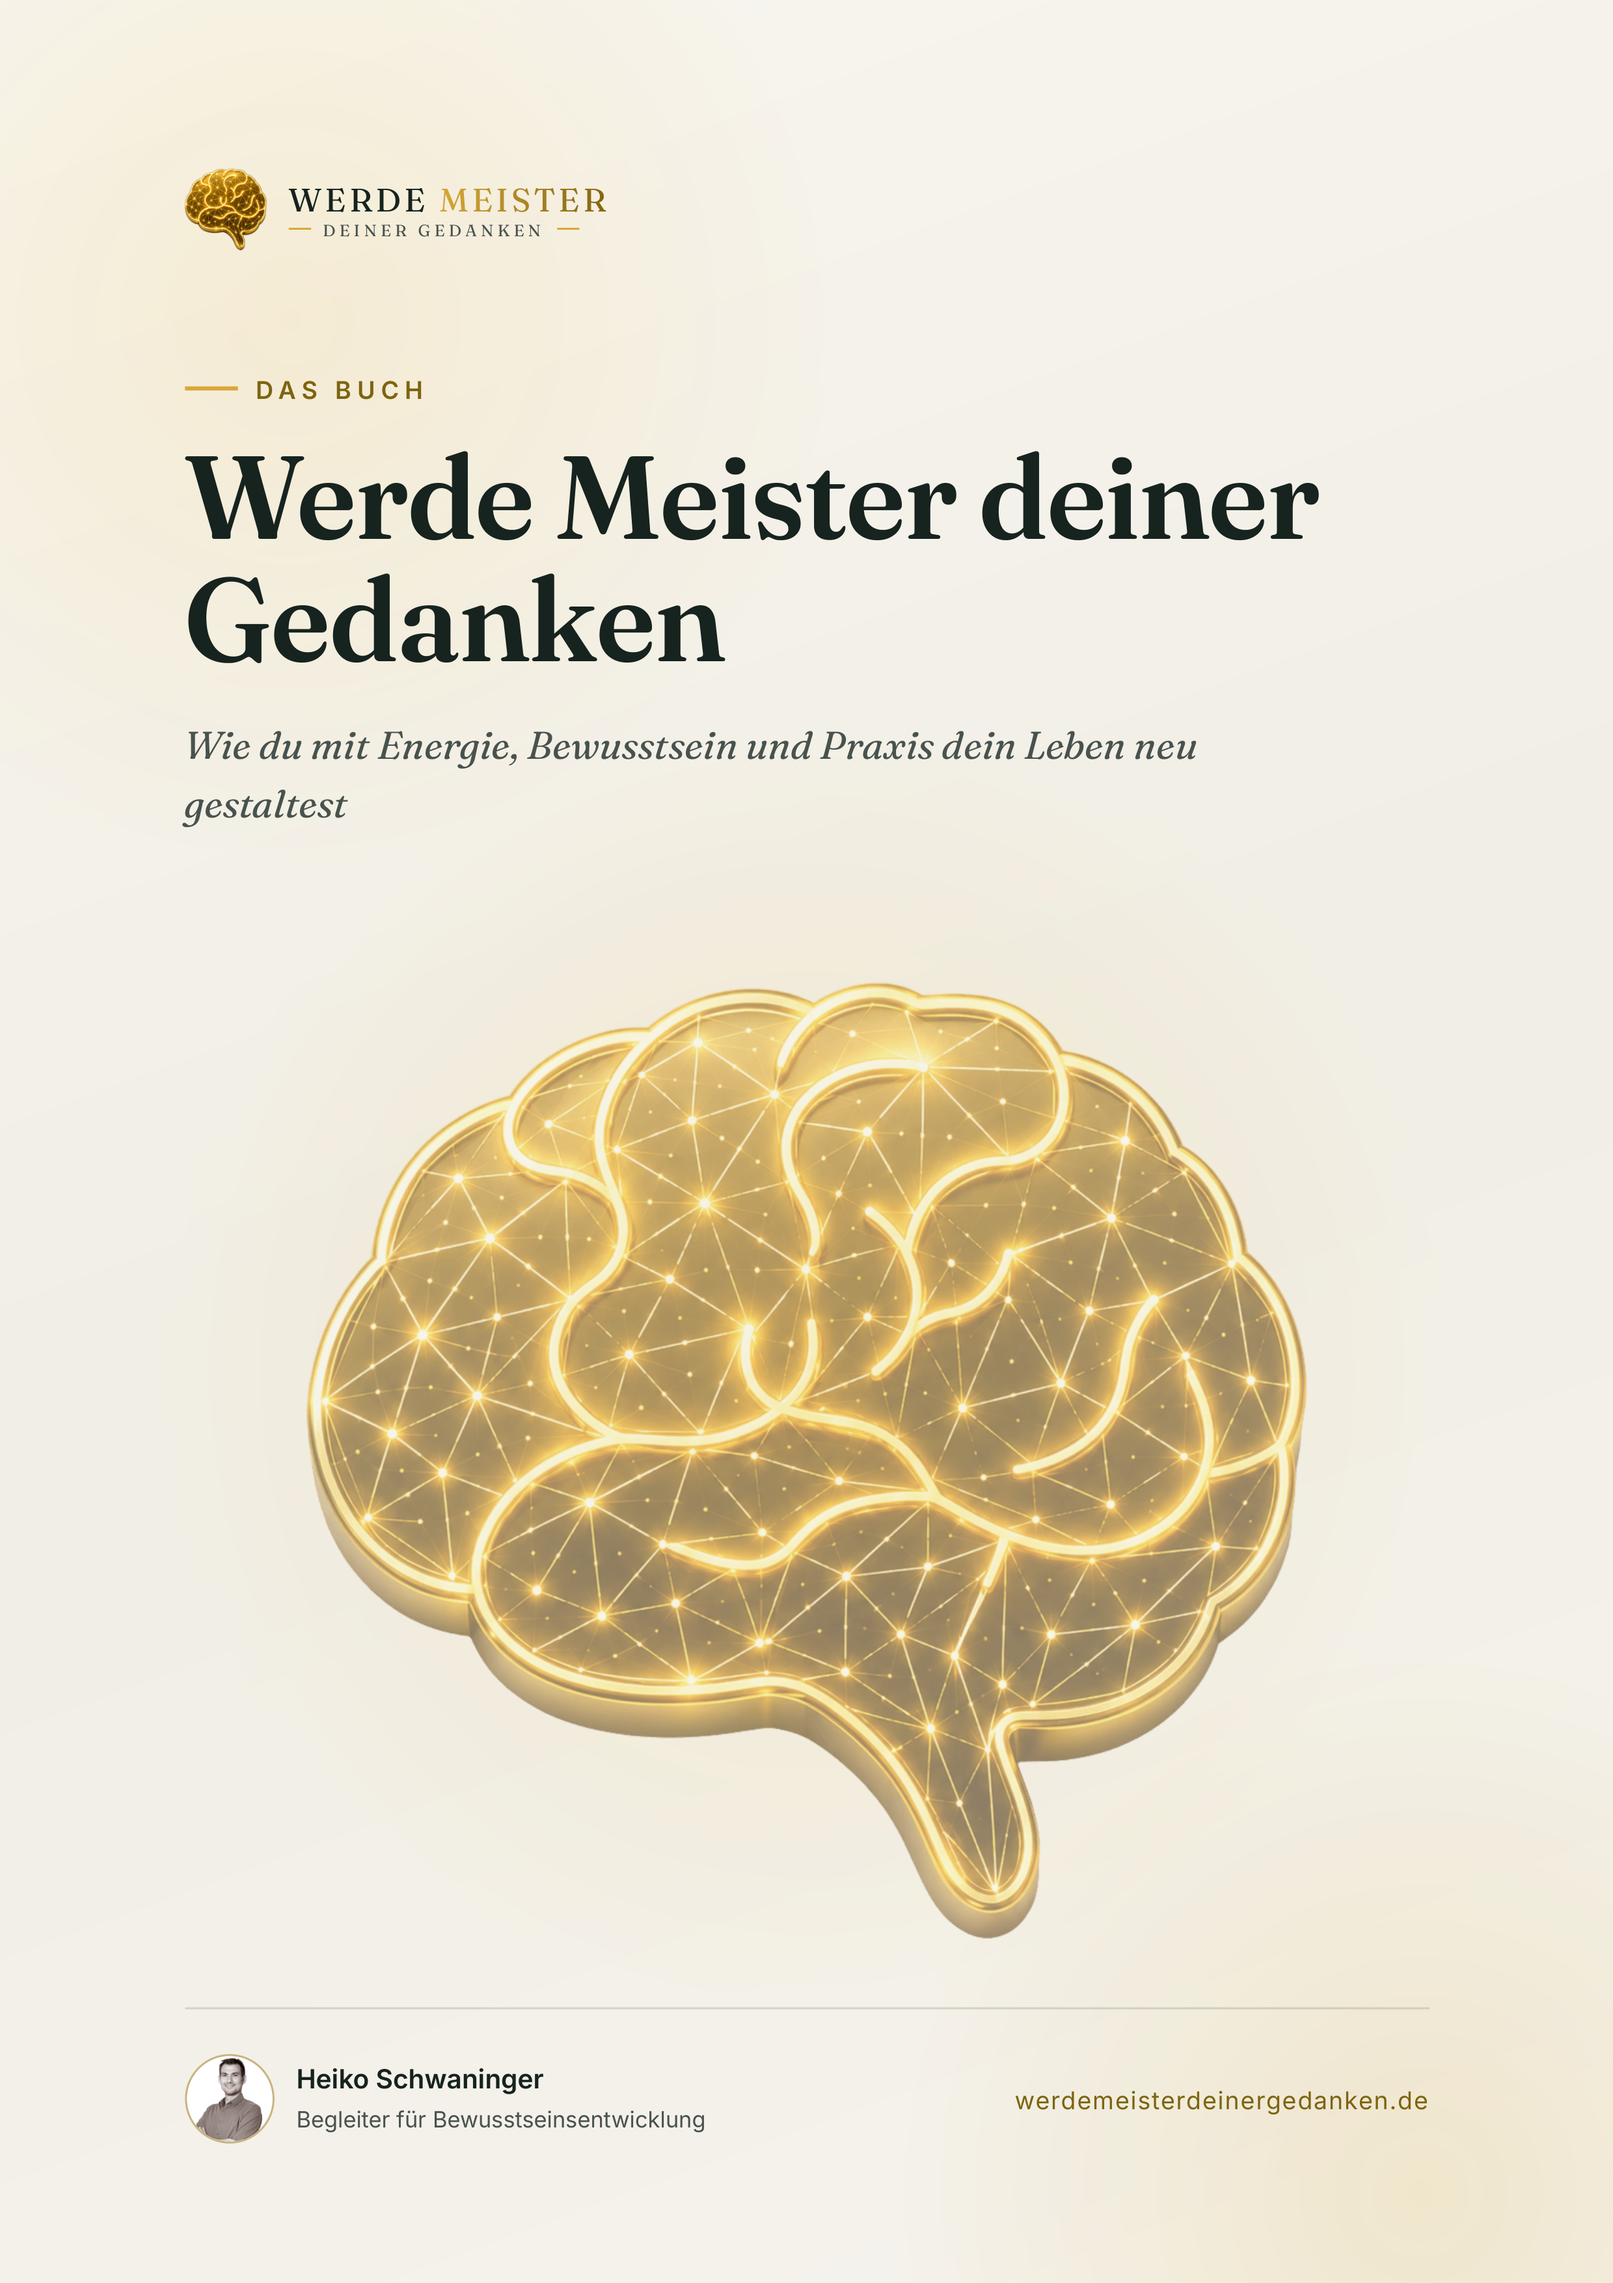
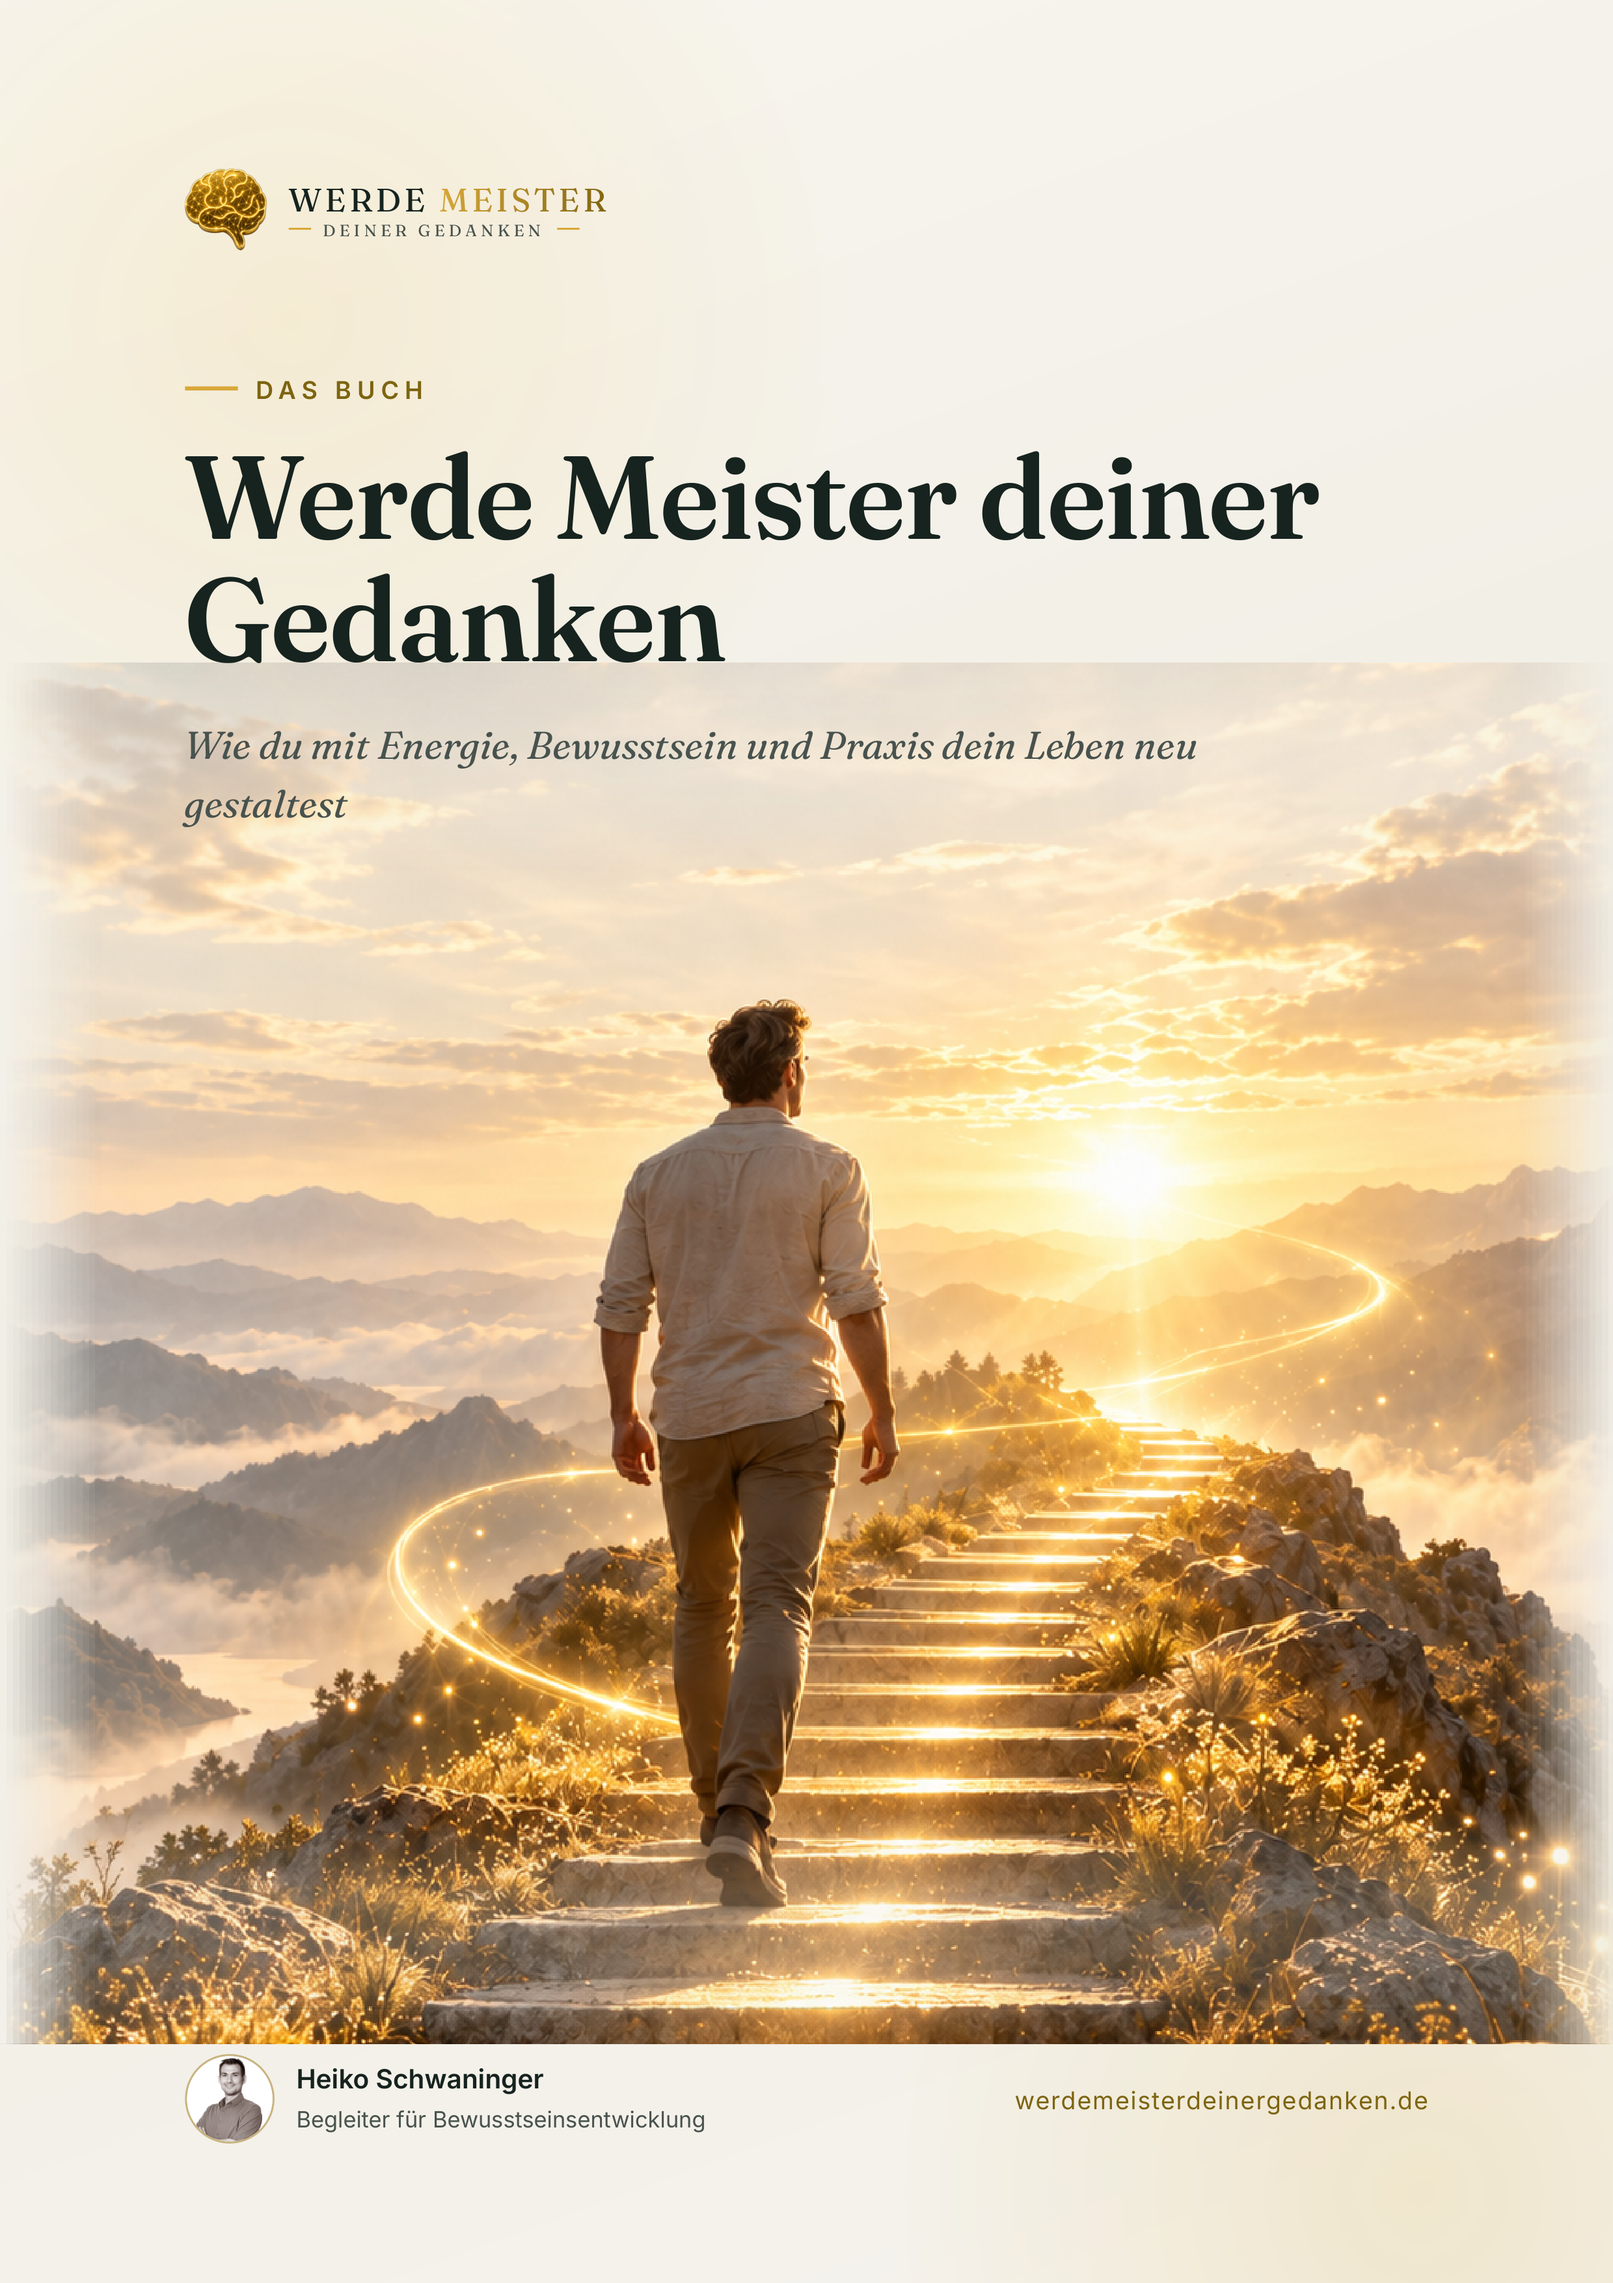
Buchcover: Treppen-Foto als Hauptmotiv einbinden
Legt das Foto „Mann auf der Treppe ins Licht" als tools/pdf/assets/cover-treppe.png
ab. Das Cover (build-buch.py) nutzt es dadurch als weich ins Creme ausgeblendetes
Vollbild-Band statt des goldenen Gehirns – auch im Buch-PDF. Neu gerendertes
content/pdf/Werde-Meister-deiner-Gedanken-Cover.png (2479×3508, A4 @ 300 dpi)
und README aktualisiert.

Claude-Session: https://claude.ai/code/session_01NV3zTsPDWxuzvzkdpV9YZo

diff --git a/tools/pdf/README.md b/tools/pdf/README.md
@@ -51,6 +51,11 @@ Das schreibt `content/pdf/Werde-Meister-deiner-Gedanken-Cover.png`
 - **Kein Nachbau:** `buchcover-png.py` baut bei Bedarf das Buch-HTML mit
   `build-buch.py`, löst daraus **genau** die `<section class="cover">` heraus und
   rendert diese identisch zur PDF-Titelseite.
+- **Hauptmotiv:** Liegt `tools/pdf/assets/cover-treppe.png` vor (Foto „Mann auf
+  der Treppe ins Licht"), nutzt das Cover dieses Foto als weich ins Creme
+  ausgeblendetes Vollbild-Band. Fehlt die Datei, fällt das Cover automatisch auf
+  das goldene Gehirn zurück. Das Motiv wird dadurch auch im **Buch-PDF**
+  (`npm run pdf:buch`) verwendet.
 - **Warum über PDF?** Die Cover-Seite ist im **Druck-Layout** gebaut
   (`@page`/`.cover{height:297mm}`, Autor-Fuß per `margin-top:auto` an die
   Seitenkante). Am Bildschirm wächst die Seite mit dem Inhalt und der Fuß würde
